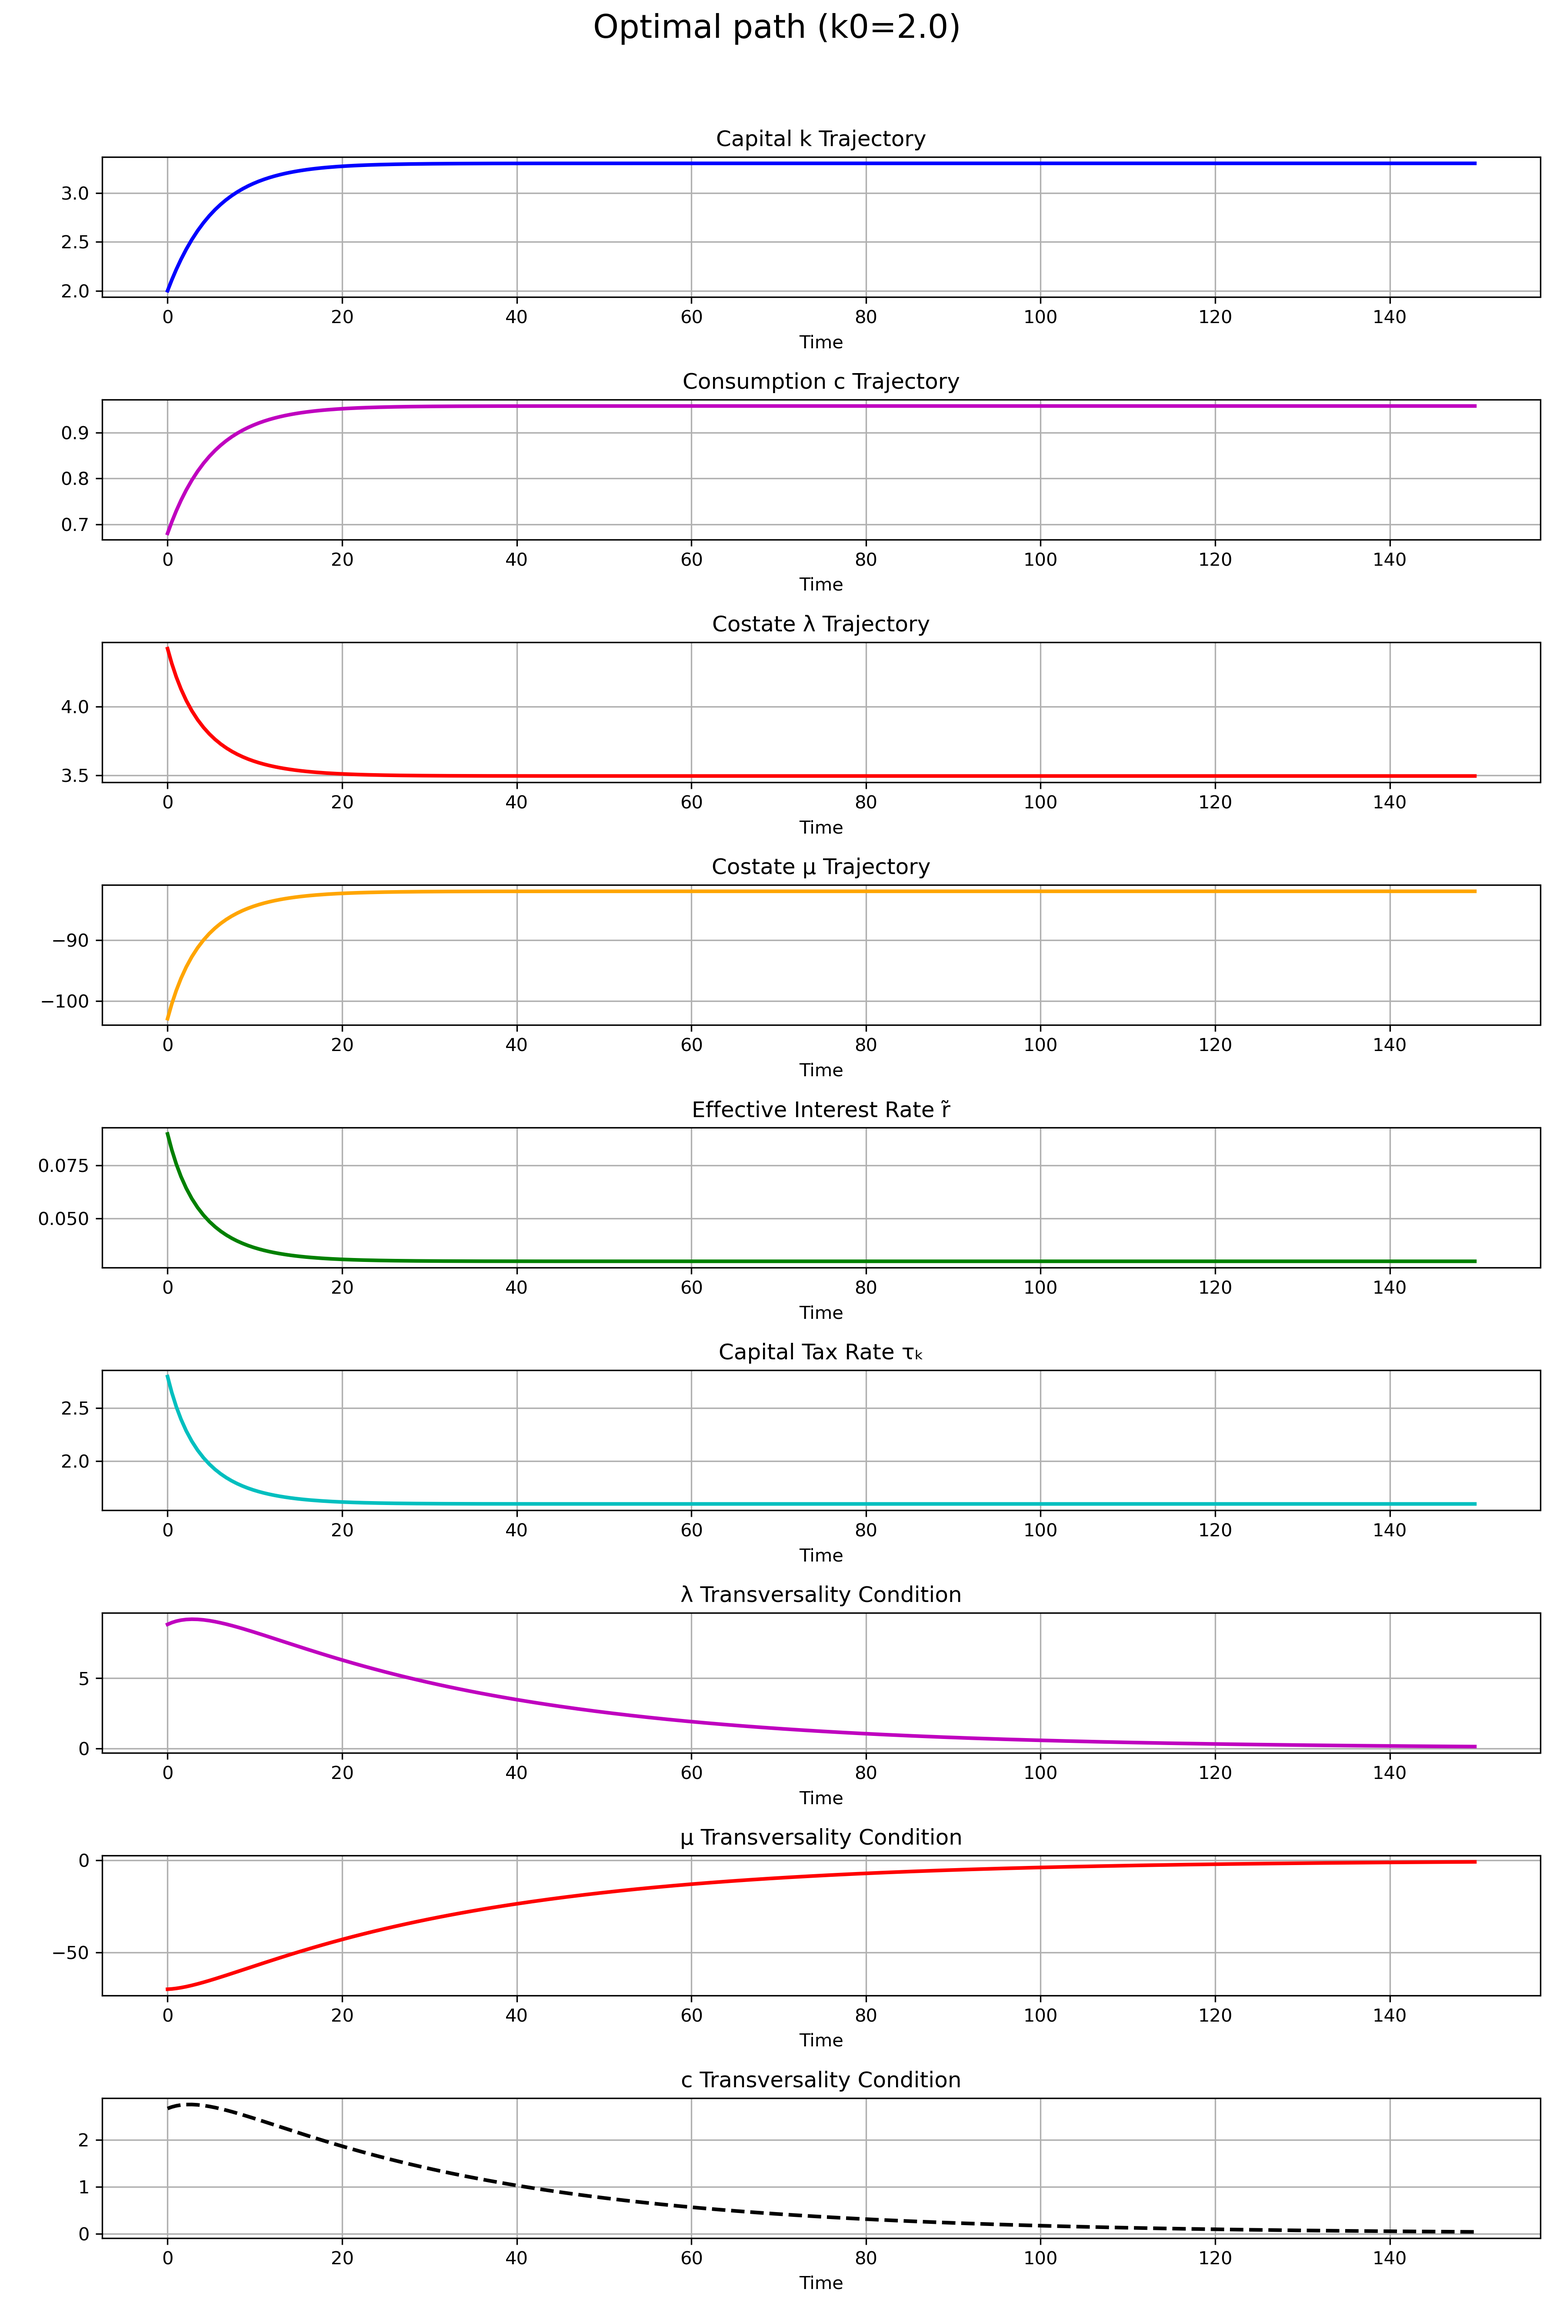
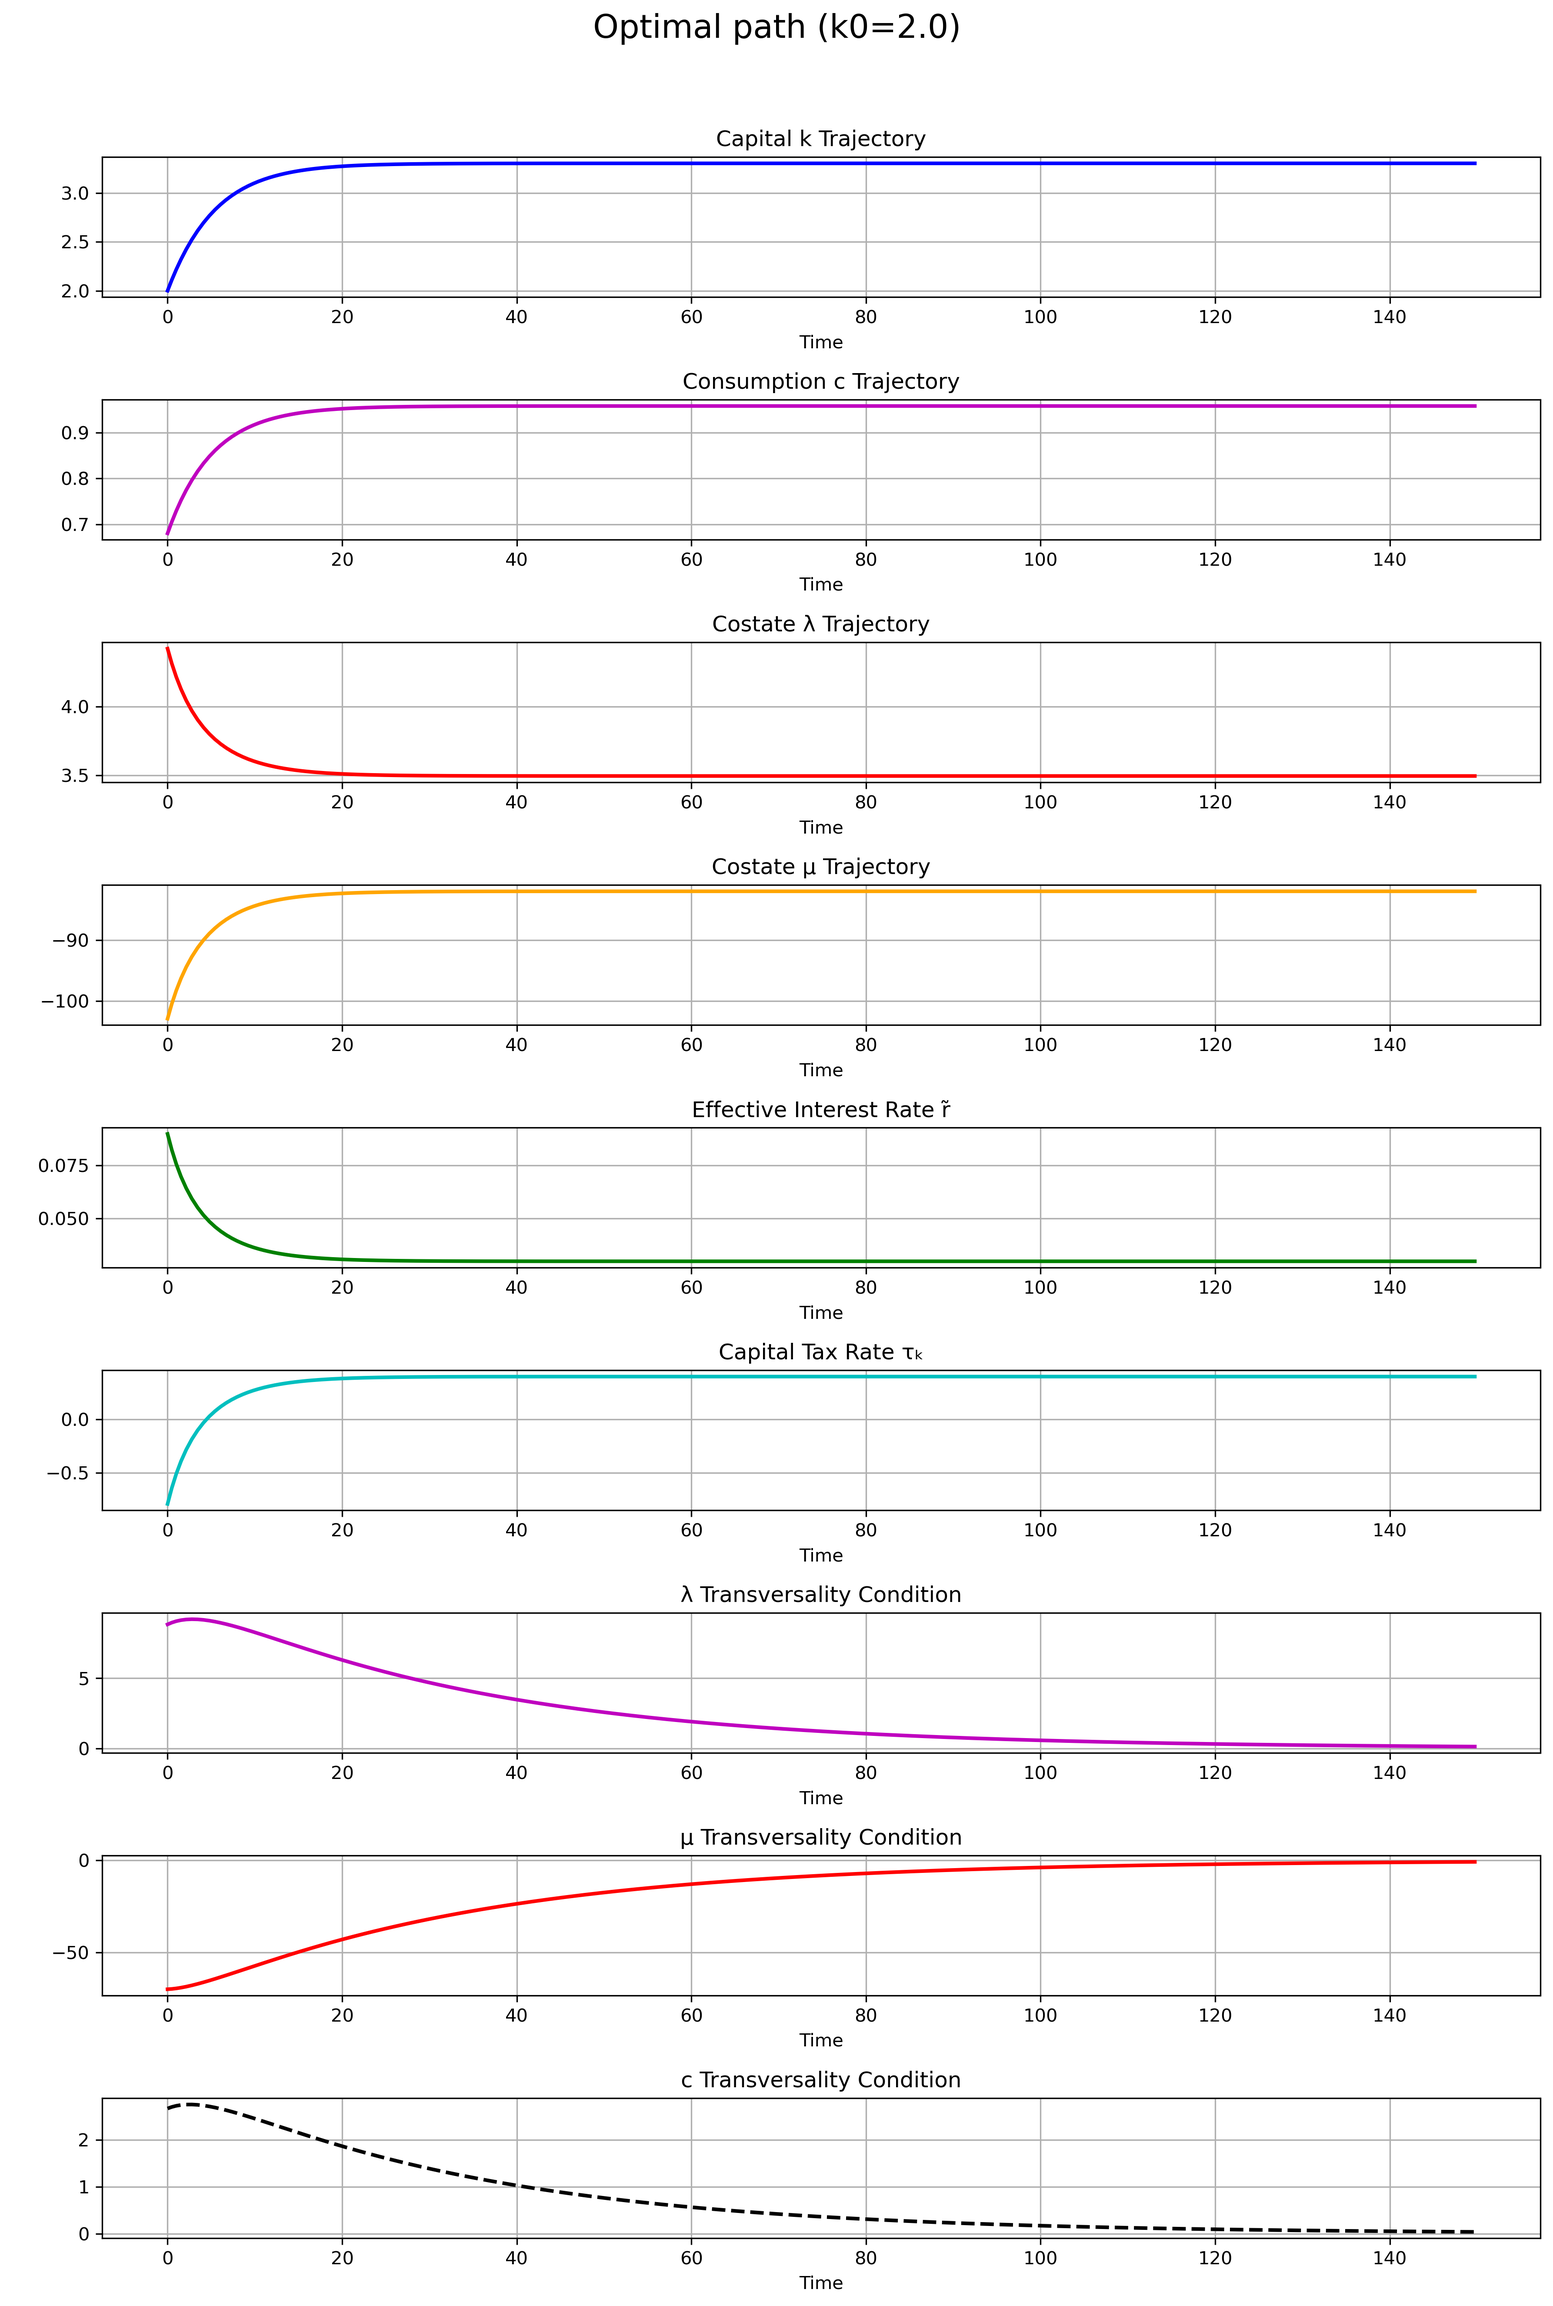
Stability: original-system 4D linearization (k,c,λ,μ); solver/tvc guards; welfare scan + square plot; docs polish. Save-only plots and CSV included.

Changed region(s): [[0.0932, 0.5912, 0.1554, 0.6534]]

diff --git a/README.md b/README.md
@@ -1,38 +1,66 @@
-# Optimal Redistributive Capital Taxation (ORCT) - Numerical Solver
+# Optimal Redistributive Capital Taxation (ORCT) – Numerical tools
 
-This project solves the forward-backward system derived from the Pontryagin Maximum Principle for the ORCT model, computes the steady state, and plots the optimal trajectory.
+Julia code to compute the analytical steady state, solve the dynamic ORCT system, assess stability, and run welfare scans across γ. Plots are saved (not shown on screen).
 
-Contents:
-- `parameters.jl` — parameter struct and defaults
-- `steady_state.jl` — computes the positive-interest steady state (r̃* = ρ)
-- `solver.jl` — BVP collocation solver with r̃ = max{0, ·}
-- `visualization.jl` — plotting helper (`plot_main_solution`)
-- `main.jl` — runner script
+Contents
+- `parameters.jl` – parameter struct and defaults
+- `steady_state.jl` – analytical steady state (r̃* = ρ) and derived values
+- `solver.jl` – interior ODE in (k, c, z) with z ≡ 1/(λ k), BVP collocation + IVP fallback, diagnostics
+- `visualization.jl` – save-only plotting (`plot_main_solution`)
+- `main.jl` – runner and utilities (welfare scan, linearizations)
 
-## Steady state (r̃* > 0 regime)
+## Model summary
 
-Let r̃* = ρ. Define for k>0:
-- c(k) = ρ k + A η k^θ
-- x(k) = A(1−η)k^θ − (δ + ρ)k
-- λ(k) = γ / (k [A(1−η)k^{θ−1} − δ − ρ])
-- μ(k) = (c(k)^{−β} − λ(k)) / ρ
+States: (k, c, z) with z = 1/(λ k). Derived: λ = 1/(z k), μ = (c^{−β} − λ)/ρ, x = γ z k.
 
-The intratemporal condition implies the scalar equation in k:
-  F(k) = λ(k) + μ(k) c(k)/(β k) − γ/x(k) = 0
+Effective return and ODEs (interior path):
+- r̃ = A(1−η) k^{θ−1} − δ − γ z
+- k̇ = r̃ k + A η k^θ − c
+- ċ = (c/β) (r̃ − ρ)
+- ż = − z [ ρ + A(1−θ) k^{θ−1} − γ z − c/k ]
 
-We solve F(k)=0 for k*, then obtain c*, λ*, μ* from the formulas above.
+Capital tax rate along the path: τₖ = 1 − r̃/(r − δ) (guarded if r ≈ δ). 
 
-## How to run
+## Steady state (positive-interest regime r̃* = ρ)
 
-Run the solver and plot:
+- k* = (A θ / (ρ + δ))^{1/(1−θ)}
+- c* = ρ k* + A η (k*)^θ
+- x* = A(1−η) (k*)^θ − (δ + ρ) k*
+- λ* = γ / (k* [A(1−η) (k*)^{θ−1} − δ − ρ])
+- μ* = ( (c*)^{−β} − λ* ) / ρ
+- τₖ* = 1 − r̃*/(r − δ) with r̃* = ρ
+
+Interior feasibility at k*: A(1−η) (k*)^{θ−1} − δ − ρ > 0 and x* > 0.
+
+## Solver and diagnostics
+
+- Method: continuation + BVP collocation (MIRK6) satisfying k(0)=k0, k(T)=k*, and ċ(T)=0 (⇒ r̃(T)=ρ); IVP shooting fallback.
+- Guards: positivity for k, c, z; derivative clamping; safe powers; small initial dt.
+- Transversality diagnostics: e^{−ρt} λ k, e^{−ρt} μ c, and e^{−ρt} c^{−β} k → 0. 
+- Success thresholds (terminal): |r̃−ρ|, |k̇|, |ċ|, |k−k*|, |c−c*| small; TVCs < 1e−2.
+
+## Running
+
+Plots for two initial conditions (saved only):
 
 ```bash
 julia --project=. main.jl
 ```
 
-Output: `solution.png` in the project root. The plot shows only [0, T/2] per `visualization.jl`.
+Output: `solution (k0=2.0).png`, `solution (k0=4.0).png`.
 
-## Notes
-- The solver is a BVP on [0,T] with `T` taken from `ModelParams` (default 1000). It enforces `k(0)=k0` and terminal conditions approximating transversality and the intratemporal/corner condition at T.
-- The kink r̃ = max{0, ·} is handled pointwise. If the solution ends in the corner at T, the boundary condition enforces r̃(T)=0; otherwise it enforces the intratemporal equality.
-- Ensure parameters imply a valid positive-interest steady state: A(1−η)k^{θ−1} − δ − ρ > 0 and x(k) > 0 at k=k*.
+Welfare scan over γ (saves CSV, no plots):
+
+```julia
+julia --project=. -e 'include("main.jl"); run_gamma_welfare_scan()'
+```
+
+Details: computes W = ∫₀ᵀ [γ log x(t) + c(t)^{1−β}/(1−β)] e^{−ρ t} dt with x = γ/λ and trapezoidal quadrature. Use `limit=` to do a subset; results saved to `welfare_gamma_scan.csv`.
+
+Stability (eigenvalues of linearization):
+
+```julia
+julia --project=. -e 'include("main.jl"); steady_linearization_eigs_kclm()'    # (k,c,λ,μ)
+```
+
+Note: μ is recovered from the intratemporal FOC μ = (c^{−β} − λ)/ρ along interior paths; we keep (k,c,z) as states for numerical robustness.
